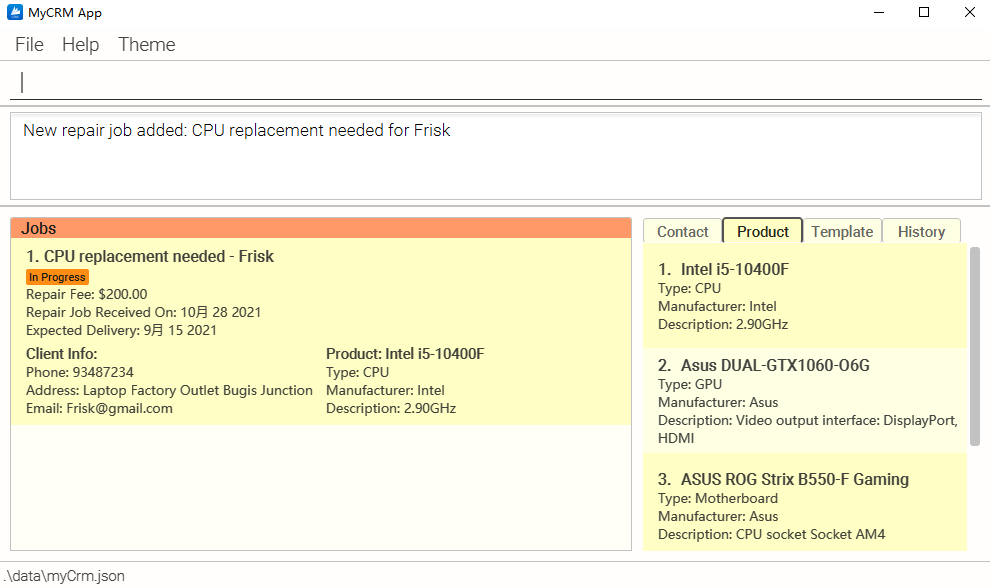
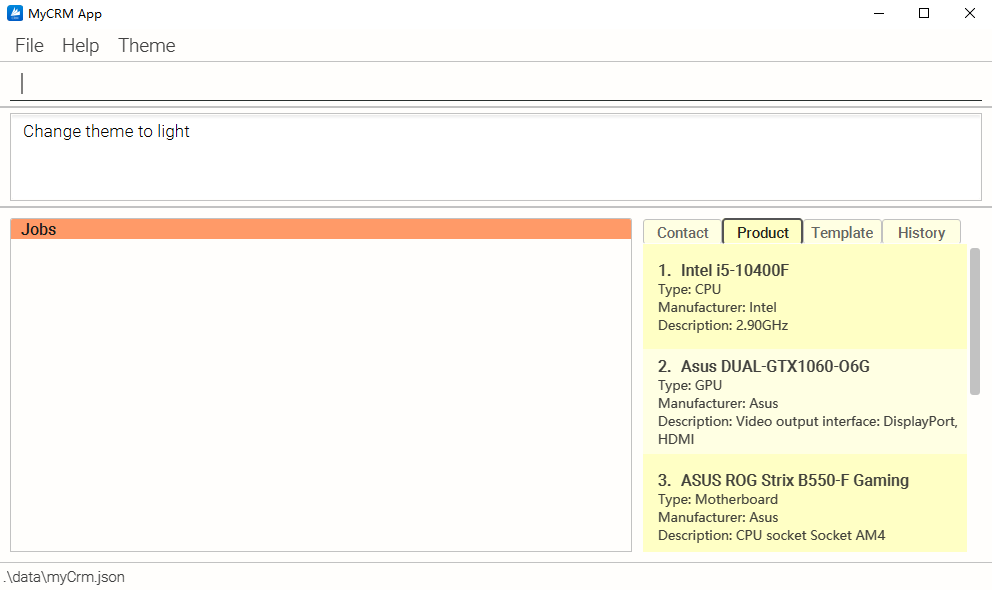
Update Ui section in DG.

diff --git a/docs/DeveloperGuide.md b/docs/DeveloperGuide.md
@@ -70,20 +70,26 @@ The sections below give more details of each component.
 
 ### UI component
 
-The **API** of this component is specified in [`Ui.java`](https://github.com/se-edu/addressbook-level3/tree/master/src/main/java/seedu/address/ui/Ui.java)
+The **API** of this component is specified in [`Ui.java`](https://github.com/AY2122S1-CS2103-T14-3/tp/blob/master/src/main/java/seedu/address/ui/Ui.java)
 
-![Structure of the UI Component](images/UiClassDiagram.png)
+![Structure of the UI Component](images/UiClassDiagram_1.png)
 
-The UI consists of a `MainWindow` that is made up of parts e.g.`CommandBox`, `ResultDisplay`, `PersonListPanel`, `StatusBarFooter` etc. All these, including the `MainWindow`, inherit from the abstract `UiPart` class which captures the commonalities between classes that represent parts of the visible GUI.
+The UI consists of a `MainWindow` that is made up of parts e.g.`CommandBox`, `ResultDisplay`, `MainDisplay`, 
+`StatusBarFooter` etc. All these, including the `MainWindow`, inherit from the abstract `UiPart` class which captures 
+the commonalities between classes that represent parts of the visible GUI.
 
-The `UI` component uses the JavaFx UI framework. The layout of these UI parts are defined in matching `.fxml` files that are in the `src/main/resources/view` folder. For example, the layout of the [`MainWindow`](https://github.com/se-edu/addressbook-level3/tree/master/src/main/java/seedu/address/ui/MainWindow.java) is specified in [`MainWindow.fxml`](https://github.com/se-edu/addressbook-level3/tree/master/src/main/resources/view/MainWindow.fxml)
+The `UI` component uses the JavaFx UI framework. The layout of these UI parts are defined in matching `.fxml` files that 
+are in the `src/main/resources/view` folder. For example, the layout of the 
+[`MainWindow`](https://github.com/AY2122S1-CS2103-T14-3/tp/blob/master/src/main/java/seedu/mycrm/ui/MainWindow.java) 
+is specified in [`MainWindow.fxml`](https://github.com/AY2122S1-CS2103-T14-3/tp/blob/master/src/main/resources/view/MainWindow.fxml)
 
 The `UI` component,
 
 * executes user commands using the `Logic` component.
 * listens for changes to `Model` data so that the UI can be updated with the modified data.
 * keeps a reference to the `Logic` component, because the `UI` relies on the `Logic` to execute commands.
-* depends on some classes in the `Model` component, as it displays `Person` object residing in the `Model`.
+* depends on some classes in the `Model` component, as it displays `Job`, `Contact`, `Product`, `Template`, `History` 
+  objects residing in the `Model`.
 
 ### Logic component
 
@@ -817,8 +823,8 @@ Priorities: High (must have) - `* * *`, Medium (nice to have) - `* *`, Low (unli
 
 **MSS**
 
-1. User requests to list products.
-2. MyCRM shows a list of products.
+1. User requests to view the list of products.
+2. MyCRM shows the list of products.
 
    Use case ends.
 
@@ -831,48 +837,46 @@ Priorities: High (must have) - `* * *`, Medium (nice to have) - `* *`, Low (unli
 
 **MSS**
 
-1. User <u>requests to list products (UC22)</u>.
-2. User requests to delete a specific product in the list.
-3. MyCRM deletes the product.
+1. User requests to delete a specific product in the list.
+2. MyCRM deletes the product.
     
     Use case ends.
 
 **Extensions**
 
+* 1a. The given index is invalid.
+    * 1a1. MyCRM shows an error message.
 
-* 2a. The given index is invalid.
-    * 2a1. MyCRM shows an error message.
+    Use case ends.    
+
+* 1b. The specified product is linked to one or more jobs.
+    * 1b1. MyCRM shows an error message.
     
-    Use case resumes at <u>step 2 in UC22</u>.
+    Use case ends.
 
 **Use case: UC 24: Edit a product.**
 
 **MSS**
 
-1. User <u>requests to list products (UC22)</u>.
-2. User requests to edit a specific product in the list.
-3. MyCRM edits the product and shows a message with edited information of the product.
+1. User requests to edit a specific product in the list.
+2. MyCRM edits the product and shows a message with info of edited product.
 
    Use case ends.
 
 **Extensions**
-* 2a. The given index is invalid.
-    * 2a1. MyCRM shows an error message.
+* 1a. The given index is invalid.
+    * 1a1. MyCRM shows an error message.
 
-  Use case resumes at <u>step 2 in UC22</u>.
-
-
-* 2b. User requests to edit the name of the product.
-    * 2b1. The product name already exists
-    * 2b2. MyCRM shows an error message.
-
-  Use case resumes at <u>step 2 in UC22</u>.
-
-
-* 2c. User requests to edit the name of the product.
-    * 2c1. The product name is unique.
+    Use case ends.
     
-    Use case resumes at step 3.
+* 1b. User requests to edit the name of the product.
+    * 1b1. The product name already exists
+    * 1b2. MyCRM shows an error message.
+
+* 1c. There is one or more empty fields in user input.
+    * 1c1. MyCRM shows an error message.
+    
+    Use case ends.
 
 **Use case: UC25 - Retrieve Previous Command**
 
@@ -891,7 +895,26 @@ Priorities: High (must have) - `* * *`, Medium (nice to have) - `* *`, Low (unli
 * 2b. MyCRM list all history commands.
 
    Use case ends.
-   
+
+**Use case: UC 26 - Change the theme of user interface(UI)**
+
+**MSS**
+
+1. User requests to change the theme of UI.
+2. MyCRM changes the theme of Ui.
+
+    Use case ends.
+
+**Extensions**
+* 1a. User enters a theme name that does not exist in MyCRM.
+    * 1a1. MyCRM shows an error message.
+    
+    Use case ends.
+
+* 1b. User enters the name of current theme.
+    * 1a1. MyCRM keeps the current theme.
+
+  Use case ends.
 
 ### Non-Functional Requirements
 

diff --git a/docs/UserGuide.md b/docs/UserGuide.md
@@ -470,13 +470,13 @@ Format: `clear`
 
   <img src="images/ui-clear.png" width="600px">
 
-### Changing theme `theme`
+### Changing the theme of user interface `theme`
 
-Changes the theme of Ui.
+Changes the theme of user interface.
 
 Format: `theme THEME_NAME`
 
-* There are 2 available Ui themes of the CRM. Name of the themes are `dark` and `light`.
+* There are 2 available Ui themes of the CRM. Their names are `dark` and `light`.
 * `THEME_NAME` is case-insensitive.
 
 Example: `theme light`
